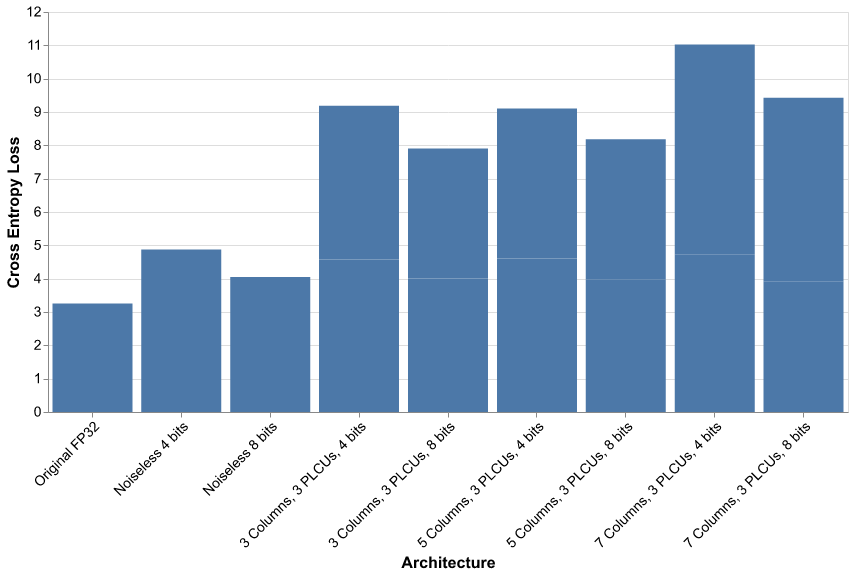
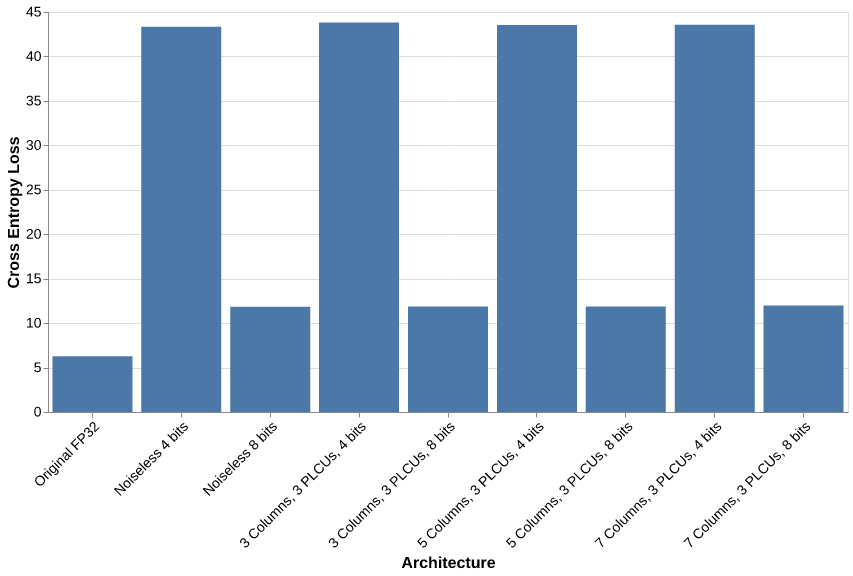
Initial Commit

diff --git a/src/model_converter.py b/src/model_converter.py
@@ -21,6 +21,7 @@ from torch.utils.data import DataLoader, TensorDataset
 from .kernels import * 
 from .configurations import *
 from tqdm import tqdm
+import timm
 import json
 
 def get_image_net_mappings():
@@ -94,7 +95,7 @@ class Loader:
         self.ident_to_full_idx, self.full_idx_to_ident = get_image_net_mappings()
         self.config = config or OpticalDotProductConfiguration()
         self.load_dataset(self.dataset_name, max_num_data_points)
-        self.load_pretrained_model(models.resnet18(pretrained=True))
+        self.load_pretrained_model(timm.create_model('deit_tiny_patch16_224', pretrained=True))
         self.make_custom_model(OpticalDotProductConfiguration())
 
 
@@ -142,9 +143,9 @@ class Loader:
 
     def load_pretrained_model(self, model):
         """
-        Loads a pretrained ResNet18 model according to the dataset.
+        Loads a pretrained DeiT-tiny model according to the dataset.
         
-        - For "mini-imagenet" or "tiny-imagenet": Uses the standard torchvision pretrained ResNet18 (on ImageNet).
+        - For "mini-imagenet" or "tiny-imagenet": Uses the standard torchvision pretrained DeiT-tiny (on ImageNet).
         """
         self.original_model = model
         self.original_model.eval()
@@ -241,7 +242,7 @@ if __name__ == "__main__":
     # Example usage
     dataset_name = "mini-imagenet"  # Change this to "tiny-imagenet" or "imagenet" as needed
     loader = Loader(dataset_name, max_num_data_points=20)
-    loader.load_pretrained_model(models.resnet18(pretrained=True))
+    loader.load_pretrained_model(timm.create_model('deit_tiny_patch16_224', pretrained=True))
     loader.make_custom_model(OpticalDotProductConfiguration.from_config_path("config/scripted/WDAC8_IDAC8_ADC8.yaml"))
 
     loader.test_model_on_dataset(custom=True)
